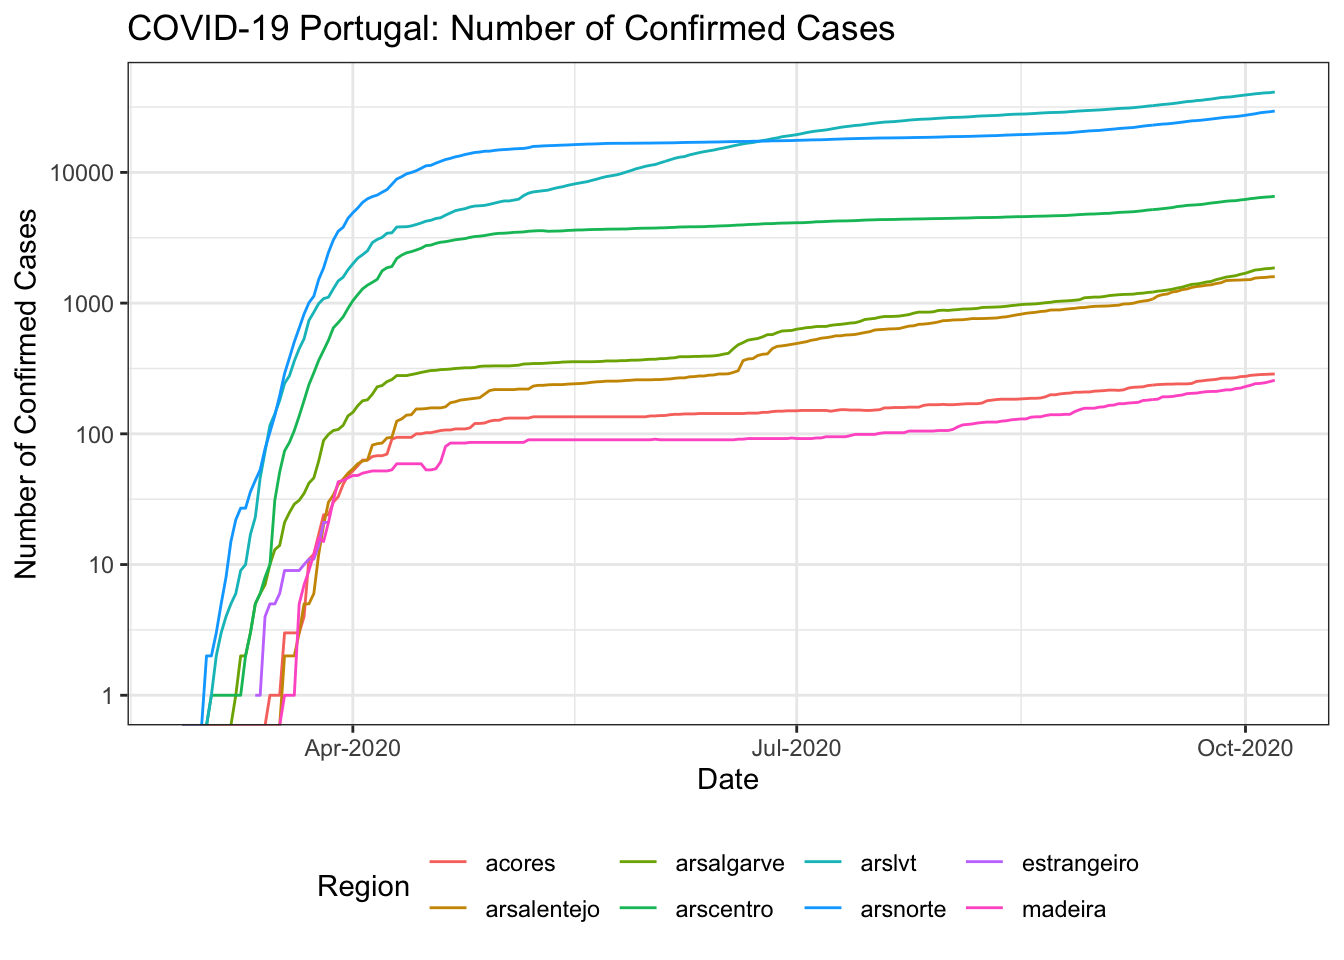
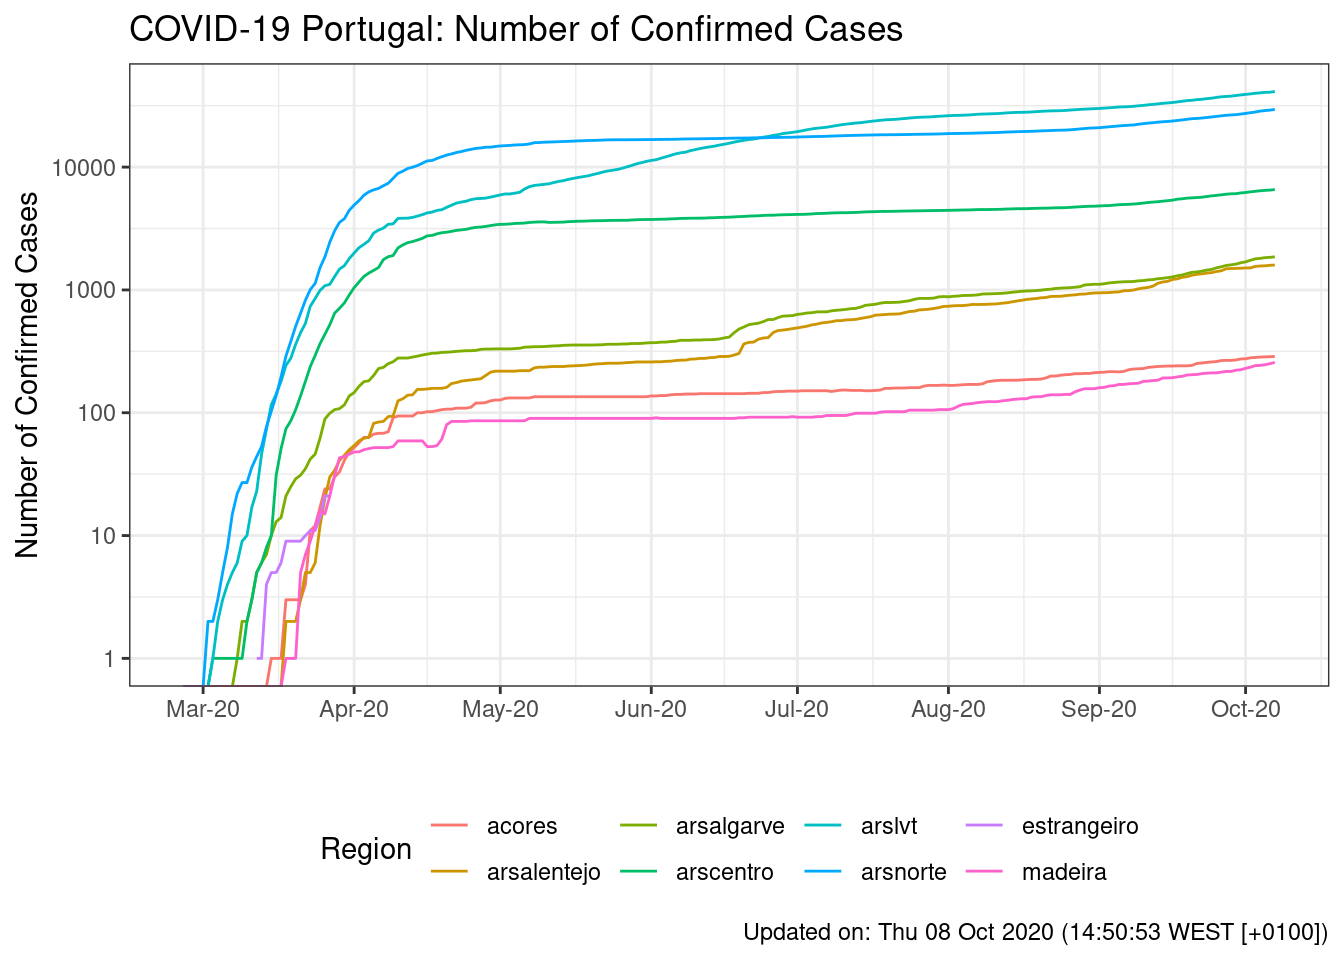
Updated graphs: Added 7 day mean calculation. Added rolling mean to "death" ("obitos") graph. Added caption with update date and time. Fixed covidPT to keep both date formats.

diff --git a/README.md b/README.md
@@ -4,7 +4,7 @@ README](https://github.com/CEAUL/Dados_COVID-19_PT/workflows/Render%20README/bad
 
 ## Daily Portuguese COVID-19 Data
 
-**Last updated: Thu 08 Oct 2020 (03:18:45 UTC \[+0000\])**
+**Last updated: Thu 08 Oct 2020 (14:50:52 WEST \[+0100\])**
 
   - Data available from **26 Feb 2020** until **07 Oct 2020** (225
     days).
@@ -74,12 +74,12 @@ library(data.table)
 library(here)
 
 # Read in data as a data.frame and data.table object.
-CV <- fread(here("data", "covid19pt_DSSG_Long.csv"))
+CVPT <- fread(here("data", "covid19pt_DSSG_Long.csv"))
 # You can use the direct link:
 # CV <- fread("https://raw.githubusercontent.com/CEAUL/Dados_COVID-19_PT/master/data/covid19pt_DSSG_Long.csv")
 
 # Looking at the data:
-tail(CV)
+tail(CVPT)
 ##          data   origVars   origType other symptoms sex ageGrpLower ageGrpUpper
 ## 1: 2020-10-02 vigilancia vigilancia                All                        
 ## 2: 2020-10-03 vigilancia vigilancia                All                        
@@ -96,12 +96,16 @@ tail(CV)
 ## 6:        Portugal 46023      Count
 
 # Order data by original variable name and date.
-setkeyv(CV, c("origVars", "data"))
+setkeyv(CVPT, c("origVars", "data"))
 
 # Convert data to a data object in dataset and add a change from previous day variable.
-CV[, data := as.Date(data, format = "%Y-%m-%d")][
+# Added a 7 day rolling average for origVars (except for symptoms). 
+# Columns `data` is date in Portuguese.
+CV <- CVPT[, data := as.Date(data, format = "%Y-%m-%d")][
   , dailyChange := value - shift(value, n=1, fill=NA, type="lag"), by = origVars][
-    grepl("^sintomas", origVars), dailyChange := NA]
+    grepl("^sintomas", origVars), dailyChange := NA][
+  , mean7Day := fifelse(origVars %chin% c("ativos", "confirmados", "obitos", "recuperados"), 
+                         frollmean(dailyChange, 7), as.numeric(NA))]
 ```
 
 ### Overall Number of Deaths (daily) by Sex
@@ -113,17 +117,23 @@ library(magrittr)
 # Change the ggplot theme.
 theme_set(theme_bw())
 
-CV[origType=="obitos" & sex %in% c("F", "M") & ageGrp==""] %>%
-  ggplot(aes(x=data, y=dailyChange, fill=as.factor(sex))) +
-  geom_bar(stat = "identity") +
-  scale_x_date(date_labels = "%b-%Y") +
+CV[origType=="obitos" & sex %chin% c("All") & ageGrp=="" & region == "Portugal"] %>%
+  ggplot(aes(x=data, y=dailyChange)) +
+  geom_bar(stat = "identity", fill = "grey75") +
+  geom_line(aes(x = data, y = mean7Day), group=1, colour = "brown") +
+  scale_x_date(date_breaks = "1 months",
+               date_labels = "%b-%y",
+               limits = c(min(cvwd$data2, na.rm = TRUE), NA)) +
   theme(legend.position = "bottom") +
   labs(
-    title = "COVID-19 Portugal: Number Daily Deaths",
-    x = "Date",
+    title = "COVID-19 Portugal: Number Daily Deaths with 7 Day Rolling Mean",
+    x = "",
     y = "Number of Deaths",
-    fill = "Sex")
-## Warning: Removed 64 rows containing missing values (position_stack).
+    fill = "Sex",
+    caption = paste0("Updated on: ", format(Sys.time(), "%a %d %b %Y (%H:%M:%S %Z [%z])"))
+    )
+## Warning: Removed 1 rows containing missing values (position_stack).
+## Warning: Removed 7 row(s) containing missing values (geom_path).
 ```
 
 <img src="README_figs/README-deathsbySex-1.png" width="672" />
@@ -134,13 +144,16 @@ CV[origType=="obitos" & sex %in% c("F", "M") & ageGrp==""] %>%
 CV[origType=="confirmados" & ageGrp=="" & region!="Portugal"] %>%
   ggplot(., aes(x=data, y=value, colour=region)) +
   geom_line() +
-  scale_x_date(date_labels = "%b-%Y") +
+  scale_x_date(date_breaks = "1 months",
+               date_labels = "%b-%y",
+               limits = c(min(cvwd$data2, na.rm = TRUE), NA)) +
   scale_y_log10() +
   theme(legend.position = "bottom") +
   labs(
     title = "COVID-19 Portugal: Number of Confirmed Cases",
-    x = "Date",
+    x = "",
     y = "Number of Confirmed Cases",
+    caption = paste0("Updated on: ", format(Sys.time(), "%a %d %b %Y (%H:%M:%S %Z [%z])")),
     colour = "Region")
 ## Warning: Transformation introduced infinite values in continuous y-axis
 ## Warning: Removed 209 row(s) containing missing values (geom_path).
